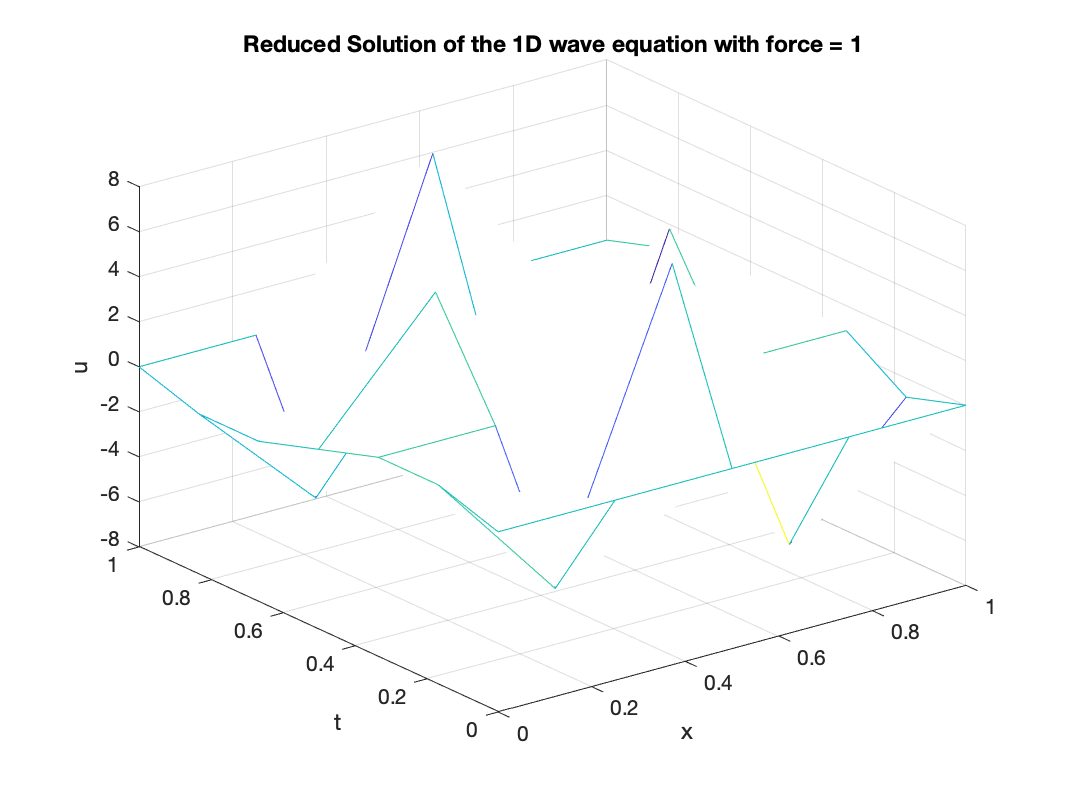
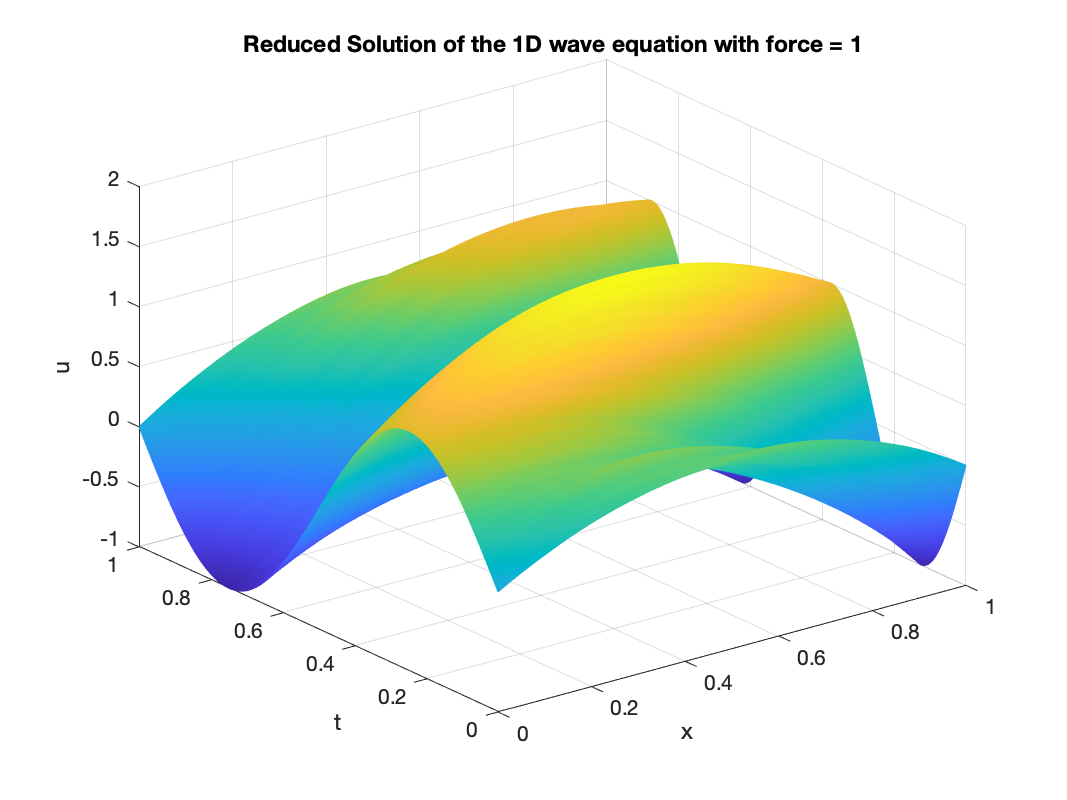
[TP2] add mode shapes(tag:w)

diff --git a/TP2_eleve/TP2_moeeze.m b/TP2_eleve/TP2_moeeze.m
@@ -42,11 +42,11 @@ udLd = -sin(4*pi*lt)/T; % boundary condition
 
 %% discrete force
 if if_force==1
-    f = (1e3 * (sin(3*pi*lt)/T)' * (sin(5*pi*lx)/L))';
+    %f = (1e3 * (sin(3*pi*lt)/T)' * (sin(5*pi*lx)/L))';
     [mesh_x_f,mesh_t_f] = meshgrid(tf,xf);
     [mesh_x_g,mesh_t_g] = meshgrid(tc,xc);
-    %fg = 100*rand(nt/10,nx/10);
-    %f = interp2(mesh_x_g,mesh_t_g,fg,mesh_x_f,mesh_t_f,'spline');
+    fg = 10*rand(nt/10,nx/10);
+    f = interp2(mesh_x_g,mesh_t_g,fg,mesh_x_f,mesh_t_f,'spline');
 end
 %%%%%%%%%%%%%%%%%%%%%%%%%%%%%%%%%%%%%%%%%%%%%%%%%%%%%%%%%%%%%%
 
@@ -106,11 +106,15 @@ title(['Solution of the 1D Diff wave equation with force = ', num2str(if_force)]
 
 %%%%%%%%%%%%%%%%%%%%%%%%%%%%%%%%%%%%%%%%%%%%%%%%%%%%%%%%%%%%%%
 % Plot collectively
-figure()
+figure(2)
 subplot(1,3,1)
 surf(lx_mesh,lt_mesh,u')
 title("Coarse distribution")
 shading interp
+
+% Plot individual modes
+figure(3)
+
 
 %%%%%%%%%%%%%%%%%%%%%%%%%%%%%%%%%%%%%%%%%%%%%%%%%%%%%%%%%%%%%%
 %% Reduction of the model PGD
@@ -121,7 +125,7 @@ G = F - K*ucl - M*ucldot;
 lambda = lt;
 iter = 0;
 W = zeros(nx, nt) + ucl;
-nb_modes = 5;
+nb_modes = 9;
 error = zeros(1, nb_modes);
 for i = 1:nb_modes
     er = 1;
@@ -153,7 +157,7 @@ for i = 1:nb_modes
     num = num'*Ix*num;
     den = den'*Ix*den;
     error(i) = num/den;
-
+    figure(2)
     subplot(1,3,2)
     mesh(lx_mesh,lt_mesh,W');
     xlabel('x')
@@ -162,6 +166,7 @@ for i = 1:nb_modes
     shading interp
     Title = ["Approximation with "+ i " mode(s)"];
     title(Title)
+    figure(2)
     subplot(1,3,3);
     plot(error);
     xlabel('modes');
@@ -169,16 +174,27 @@ for i = 1:nb_modes
     Title2 = ["Error with "+ i " mode(s)"];
     title(Title2)    
     pause(0.5)
+    figure(3)
+    subplot(3,3,i)
+    mesh(lx_mesh,lt_mesh,(Lambda * lambda)');
 end
 
 u_red = W;
+figure(2)
 fprintf('\nNumber of iterations: %d', iter);
 fprintf('\n\nFinal error: %d', er);
 saveas(gcf, strcat('../Final Report/assets/TP2_red_anim_solution_', num2str(if_force), '.png'));
 saveas(gcf, strcat('assets/TP2_red_anim_solution_', num2str(if_force), '.png'));
 
+% Plot the reduced modes
+figure(3)
+sgtitle('Modes of the reduced model')
+saveas(gcf, strcat('assets/TP2_red_modes_', num2str(if_force), '.png'));
+saveas(gcf, strcat('../Final Report/assets/TP2_red_modes_', num2str(if_force), '.png'));
+
+
 %% Cost = no.modes * n_iter * cost
-figure
+figure(4)
 [lx_mesh, lt_mesh] = meshgrid(lx, lt);
 mesh(lx_mesh, lt_mesh, u_red');
 xlabel('x')
